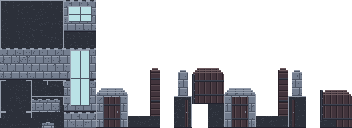
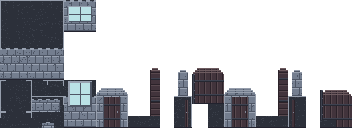
Bring the wall windows down to the height of their own wall
Same bug as the door, one strip to the left of the same sheet, and it
survived the door fix because the audit was only looking at doors.

WallWindowObject reads x 64..96 as 16px cells and draws two different
windows from them. Head-on uses rows 0-1 at drawY-16 and drawY: 32px, fine.
Edge-on uses rows 2..7 at drawY-64, -48, -32, -16, 0 and +16. That list can
reach two full tiles above the tile the window sits on, and vanilla does
not use the reach: on stonewall and cryptwall rows 2, 3 and 4 are EMPTY and
row 5 is only the jambs, so the window ends up 48px -- exactly as tall as
its wall. Ours filled all six rows and rendered 96px against a 48px wall.
"Doppelt so hoch wie die Wände" is a precise description: 96 over 48.

Rows 2-4 are now empty. The edge-on window is built from rows 5-7, where
row 5 lands on the same screen row as the neighbouring wall segment's dark
top cap and rows 6-7 on its two face halves -- so it is painted with the
cap and face materials in that order. Painting row 5 as brick was the first
attempt and the window sat visibly below the wall's dark band instead of
inside it.

It also now has the same shape as the head-on window: one opening with a
cross bar. Splitting it into two narrow lights either side of a wide
mullion, which is closer to what vanilla draws, read as a pair of bars
rather than as a window at 1x.

sheet_format_audit checks the window strip now, not just the doors. Against
[…]

Changed region(s): [[0.1562, 0.25, 0.2812, 0.9062], [0.1875, 0.9688, 0.2812, 1.0]]

diff --git a/tools/sheet_format_audit.py b/tools/sheet_format_audit.py
@@ -9,12 +9,21 @@ scores BETTER on mass while rendering three tiles too tall.
 
 Checks:
 
-  Wall sheets (352x128). WallDoorObject/WallDoorOpenObject draw eight 32x128
-  cells at pos(drawX, drawY - 96), so sheet row 96 is the tile's top edge and
-  anything above it sticks out over the wall. The expected top rows below were
-  measured off vanilla stonewall.png; a wall segment itself only rises 16px
-  above its tile, so a door whose cell starts near row 0 towers over the wall
-  it sits in. Bottom row is always 127.
+  Wall sheets (352x128), doors. WallDoorObject/WallDoorOpenObject draw eight
+  32x128 cells at pos(drawX, drawY - 96), so sheet row 96 is the tile's top
+  edge and anything above it sticks out over the wall. The expected top rows
+  below were measured off vanilla stonewall.png; a wall segment itself only
+  rises 16px above its tile, so a door whose cell starts near row 0 towers over
+  the wall it sits in. Bottom row is always 127.
+
+  Wall sheets, windows. Same trap one strip to the left, and it shipped even
+  after the doors were fixed, because this audit was only looking at doors.
+  WallWindowObject reads x 64..96 as 16px cells and draws TWO windows from it:
+  head-on uses rows 0-1 at drawY-16 and drawY; edge-on uses rows 2..7 at
+  drawY-64, -48, -32, -16, 0 and +16. That second list can reach two tiles up,
+  and vanilla does not use the reach -- on stonewall and cryptwall rows 2-4 are
+  EMPTY, so the window ends up 48px, exactly as tall as its wall. Filling those
+  rows renders a window 96px tall against a 48px wall.
 
 Usage:  python3 tools/sheet_format_audit.py
 Exit code 1 if anything is out of format.
@@ -43,6 +52,13 @@ DOOR_CELLS = {
 }
 
 
+# 16px cell row -> whether the edge-on window may put anything there.
+# Rows 2, 3 and 4 are drawn at drawY-64, -48 and -32: two full tiles and more
+# above the tile the window sits on. Vanilla leaves all three empty.
+WINDOW_MUST_BE_EMPTY = (2, 3, 4)
+WINDOW_STRIP_X = (64, 96)
+
+
 def cell_extent(px, height, x0, x1):
     rows = [y for y in range(height)
             if any(px[x, y][3] > 0 for x in range(x0, x1))]
@@ -62,6 +78,17 @@ def main():
             problems.append(f"{rel}: {im.size}, expected (352, 128)")
             continue
         px = im.load()
+        for row in WINDOW_MUST_BE_EMPTY:
+            checked += 1
+            opaque = sum(1 for y in range(row * 16, row * 16 + 16)
+                         for x in range(*WINDOW_STRIP_X) if px[x, y][3] > 0)
+            if opaque:
+                drawn_at = {2: -64, 3: -48, 4: -32}[row]
+                problems.append(
+                    f"{rel} window row {row}: {opaque}/512 opaque, expected empty -- "
+                    f"it is drawn at drawY{drawn_at}, so the window would stand "
+                    f"{-drawn_at}px above its own tile against a 16px wall")
+
         for cell, (want_top, want_bot) in DOOR_CELLS.items():
             top, bot = cell_extent(px, 128, cell * 32, cell * 32 + 32)
             checked += 1
@@ -78,7 +105,8 @@ def main():
     if problems:
         print(f"\n{len(problems)} sheet cell(s) out of format.")
         return 1
-    print(f"OK: {checked} wall-sheet door cells sit at the extents the engine draws them at.")
+    print(f"OK: {checked} wall-sheet door and window cells sit at the extents "
+          f"the engine draws them at.")
     return 0
 
 

diff --git a/tools/asset_generator/gen_walls.py b/tools/asset_generator/gen_walls.py
@@ -170,6 +170,19 @@ def _build_wall(mat, salt):
     _mini_face(c, 3 * C, 7 * C + 10, 6, 6, mat, salt + 72)
 
     # ---- window insert (64-96) ----
+    # WallWindowObject.addWallDrawOptions reads this strip as 16px cells and
+    # draws two DIFFERENT windows from it, chosen by which way the wall runs:
+    #
+    #   head-on (windowDir 1): rows 0,1 at drawY-16 and drawY -> 32px tall.
+    #   edge-on (else):        rows 2..7 at drawY-64, -48, -32, -16, 0, +16.
+    #
+    # That second list is the trap. It CAN reach two tiles above the tile, and
+    # vanilla does not use the reach: measured on stonewall and cryptwall, rows
+    # 2-4 are EMPTY and row 5 is only the jambs, so the window ends up 48px --
+    # exactly as tall as the wall it sits in. Filling all six rows, which this
+    # generator used to do, renders a window 96px tall against a 48px wall:
+    # "Fenster ... sind halt doppelt so hoch wie die Wände", reported from the
+    # same base as the door bug, and it is the same bug one strip to the left.
     def window_pane(x0, y0, w, h):
         for x in range(w):
             for y in range(h):
@@ -183,14 +196,30 @@ def _build_wall(mat, salt):
         _edge_line(c, x0, y0, w, h, True, True, mat["face_hi"])
         _edge_line(c, x0, y0, w, h, True, False, mat["face_deep"])
 
-    # short high window (rows 0-1)
+    # head-on window (rows 0-1) -- already the right 32px, left alone
     _face(c, 64, 0, 32, True, mat, salt + 50)
     _face(c, 64, C, 32, False, mat, salt + 50)
     window_pane(68, 6, 24, 16)
-    # tall strip (rows 2-7)
-    for row in range(2, 8):
-        _ceiling(c, 64, row * C, 32, C, mat, salt + 60) if row < 3 else _face(c, 64, row * C, 32, row % 2 == 1, mat, salt + 60 + row)
-    window_pane(70, 3 * C + 2, 20, 4 * C - 8)
+
+    # edge-on window (rows 5-7 only; rows 2-4 stay transparent)
+    #
+    # Row 5 lands where the neighbouring wall segment draws its dark top CAP
+    # (its own row 0, also at drawY-16), and rows 6-7 where the wall draws its
+    # face halves (rows 3-4). Painting row 5 as brick instead of cap was the
+    # first attempt and the window sat visibly below the wall's dark band
+    # instead of inside it. Same material, same row, or it does not read as one
+    # wall.
+    _ceiling(c, 64, 5 * C, 32, C, mat, salt + 60)
+    _face(c, 64, 6 * C, 32, True, mat, salt + 61)
+    _face(c, 64, 7 * C, 32, False, mat, salt + 62)
+    # One opening with a cross bar, the same shape as the head-on window above.
+    # Two narrow lights either side of a wide mullion read as a pair of bars,
+    # not as a window.
+    window_pane(69, 5 * C + 2, 22, 24)
+    _edge_line(c, 68, 5 * C + 1, 24, 26, True, True, mat["face_hi"])
+    _edge_line(c, 68, 5 * C + 1, 24, 26, True, False, mat["face_deep"])
+    _edge_line(c, 68, 5 * C + 1, 24, 26, False, True, mat["face_hi"])
+    _edge_line(c, 68, 5 * C + 1, 24, 26, False, False, mat["face_deep"])
 
     # ---- door frames (96-352): eight 32x128 cells ----
     # WallDoorObject/WallDoorOpenObject draw EVERY one of these cells at
